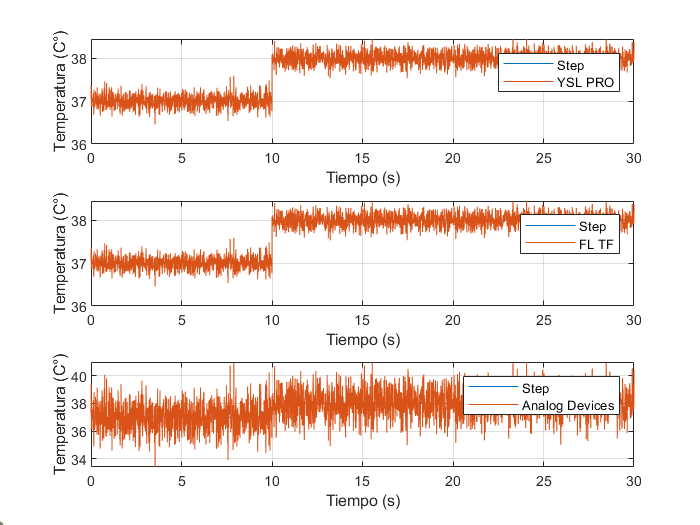
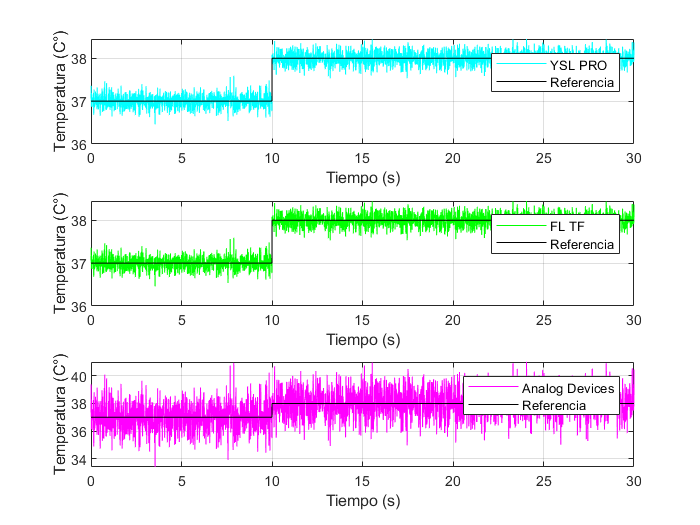
gráficos

diff --git a/E1/s_temperatura.m b/E1/s_temperatura.m
@@ -6,32 +6,32 @@ analog = out.STemp(:,5);
 
 grafico1 = tiledlayout(3,1);
 nexttile
-plot(tiempo,Step)
+plot(tiempo,YSL_PRO,'c')
 xlabel('Tiempo (s)')
 ylabel('Temperatura (C°)')
 hold on
-plot(tiempo,YSL_PRO)
-legend('Step','YSL PRO')
+plot(tiempo,Step,'k')
+legend('YSL PRO','Referencia')
 grid on
 hold off
 
 nexttile
-plot(tiempo,Step)
+plot(tiempo,FL_TF,'g')
 xlabel('Tiempo (s)')
 ylabel('Temperatura (C°)')
 hold on
-plot(tiempo,FL_TF)
-legend('Step','FL TF')
+plot(tiempo,Step,'k')
+legend('FL TF','Referencia')
 grid on
 hold off
 
 nexttile
-plot(tiempo,Step)
+plot(tiempo,analog,'m')
 xlabel('Tiempo (s)')
 ylabel('Temperatura (C°)')
 hold on
-plot(tiempo,analog)
-legend('Step','Analog Devices')
+plot(tiempo,Step,'k')
+legend('Analog Devices','Referencia')
 grid on
-hold off¿
+hold off
 

diff --git a/E1/s_cod.m b/E1/s_cod.m
@@ -12,5 +12,5 @@ hold on
 plot(tiempo,aqua)
 plot(tiempo,realtech)
 plot(tiempo,proteus)
-legend('Sinusoidal','Aqua','Realtech','Proteus')
+legend('Referencia','Aqua','Realtech','Proteus')
 hold off
